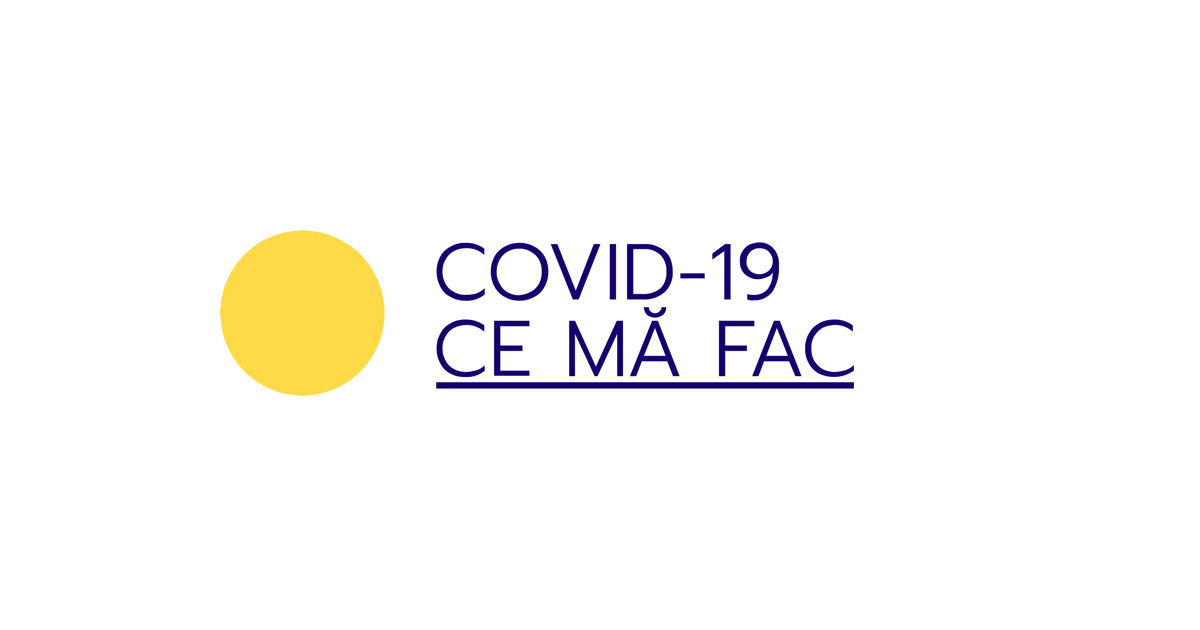
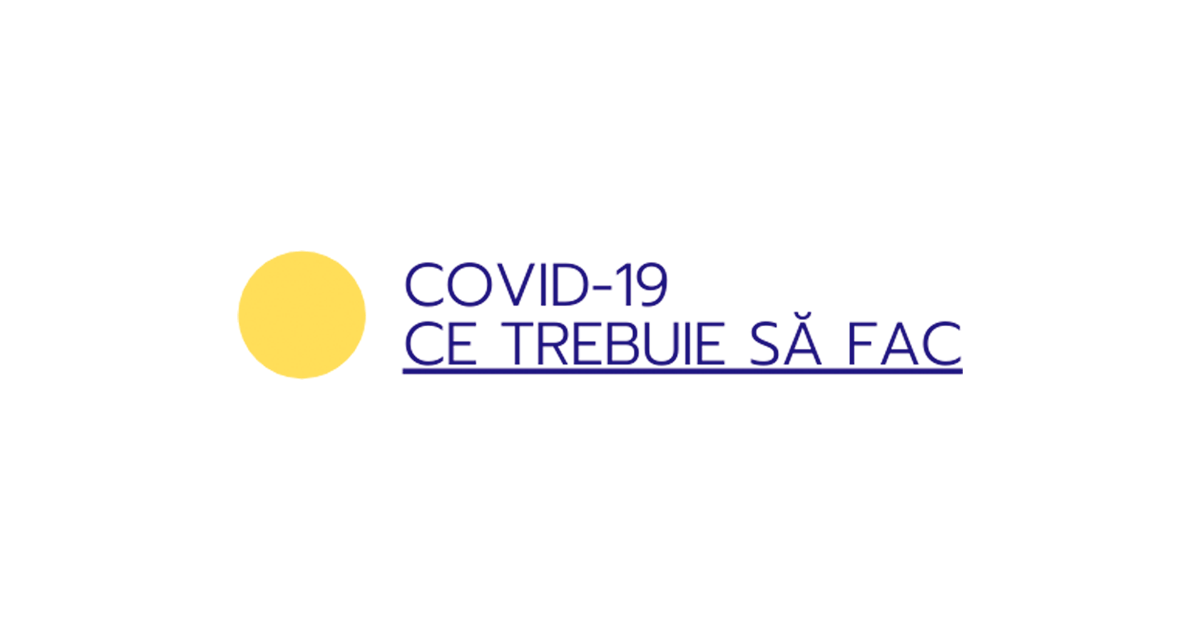
Deploy to prod (#135)
* Api setup.

* Swagger setup

* Api for static pages.

* chore: add initial setup for the frontend part

* docs: update main README.md file for the frontend app

* Api for static pages.

* Added routing and initial structure

* Code review changes

* Added react-bulma-components

* added dummy json files

* feat: initial header

* chore: add .nvmrc and .editorconfig

* chore: add eslint script and husky pre-commit hook

* refactor: change single to double quotes

* refactor: fix warning by adding alt to images

* chore: add eslint GitHub action

* fix: remove build dir from git

* Update decision-tree.json

* Update and rename decision-tree.json to static-page-with-decision-tree.json

* Update static-page.json

* Update useful-app.json

* Refactor/global styles (#43)

* chore: update global styling, removed custom elements, added mobile friendly css for the header, added node-sass

* chore: fixed formatting

* Update frontend/src/components/Header/Header.scss

* Feature/about page (#42)

* chore: create about page layout

* chore: added useful informations section

* chore: added some mobile friendly css

* chore: added node-sass

* fix: update custom elements to classes, removed ids, fixed formatting, added target to <a> tags

* chore: update app content width

* fix: fixed app content height

* chore: update content width

* Azure pipelines (#41)

* Set up CI with Azure Pipelines

[skip ci]

* reorder

* remove name

* Update build.yml for Azure Pipelines

* Add badge
[…]

Changed region(s): [[0.185, 0.3619, 0.8017, 0.6333]]

diff --git a/frontend/src/components/About/index.js b/frontend/src/components/About/index.js
@@ -22,15 +22,15 @@ const About = () => {
           <Hero
             title="Despre proiect"
             useFallbackIcon={true}
-            subtitle="Vrem să facem lucrurile mai simple pentru noi toți. Cemafac.ro este un
-          ghid cu reguli de interacțiune, acțiune și comportament recomandate în
-          această perioadă de criză în care ne confruntăm cu răspândirea foarte
-          rapidă a infecției cu coronavirus. Vrem să aducem mai aproape de voi
-          regulile de bază recomandate de autorități de la care este indicat să
-          nu ne abatem în această perioadă."
+            subtitle="Vrem să facem lucrurile mai simple pentru noi toți.
+          Cetrebuiesafac.ro este un ghid cu reguli de interacțiune, acțiune și
+          comportament recomandate în această perioadă de criză în care ne
+          confruntăm cu răspândirea foarte rapidă a infecției cu coronavirus.
+          Vrem să aducem mai aproape de voi regulile de bază recomandate de
+          autorități de la care este indicat să nu ne abatem în această perioadă."
           />
           <div>
-            <SocialsShare currentPage={"https://cemafac.ro/despre"} />
+            <SocialsShare currentPage={"https://cetrebuiesafac.ro/despre"} />
           </div>
         </section>
         <section className="about-section-logo">
@@ -38,10 +38,10 @@ const About = () => {
         </section>
         <section className="has-border-bottom has-horizontal-paddding">
           <p>
-            cemăfac.ro este o platformă care ajută populația să înțeleagă mai
-            bine care sunt regulile ce trebuie respectate în timpul pandemieii
-            COVID-19. Un ghid simplu și practic, redactat pe înțelesul tuturor
-            cu sprijinul&nbsp;
+            Cetrebuiesafac.ro este o platformă care ajută populația să înțeleagă
+            mai bine care sunt regulile ce trebuie respectate în timpul
+            pandemieii COVID-19. Un ghid simplu și practic, redactat pe
+            înțelesul tuturor cu sprijinul&nbsp;
             <a
               href="https://www.facebook.com/comunicarenonprofit/"
               target="_blank"
@@ -65,8 +65,8 @@ const About = () => {
         </section>
         <section className="has-border-bottom has-horizontal-paddding">
           <p>
-            Platforma cemăfac.ro este construită de Code for Romania Task Force
-            în parteneriat cu&nbsp;
+            Platforma cetrebuiesafac.ro este construită de Code for Romania Task
+            Force în parteneriat cu&nbsp;
             <a
               href="https://www.gov.ro/"
               target="_blank"

diff --git a/frontend/src/App.js b/frontend/src/App.js
@@ -1,4 +1,4 @@
-import React, { useEffect } from "react";
+import React, { useEffect, Suspense, lazy } from "react";
 import {
   BrowserRouter as Router,
   Link,
@@ -7,23 +7,32 @@ import {
   useHistory
 } from "react-router-dom";
 import { logPageView } from "./analyticsTracker";
-import FooterWrapper from "./components/Footer";
-import About from "./components/About";
 import Home from "./components/Home";
-import PrivacyPolicy from "./components/PrivacyPolicy";
-import TermsAndConditions from "./components/TermsAndConditions";
+
 import {
   Header,
   DevelopedBy,
   IncubatedBy,
   Banner
 } from "@code4ro/taskforce-fe-components";
-import LogoSvg from "./images/logo.svg";
+// import LogoSvg from "./images/logo.svg";
 import "./App.scss";
+
+const About = lazy(() => import("./components/About"));
+const PrivacyPolicy = lazy(() => import("./components/PrivacyPolicy"));
+const TermsAndConditions = lazy(() =>
+  import("./components/TermsAndConditions")
+);
+const FooterWrapper = lazy(() => import("./components/Footer"));
 
 const Logo = () => (
   <Link to="/">
-    <img width="145" height="32" alt="Covid-19. Ce ma fac?" src={LogoSvg} />
+    <img
+      width="178"
+      height="32"
+      alt="Covid-19. Ce trebuie să fac?"
+      src="/images/logo.png"
+    />
   </Link>
 );
 
@@ -72,24 +81,26 @@ const App = () => {
       />
       <Header Logo={Logo()} MenuItems={MenuItems} />
       <DevelopedBy showSecondLine={true} />
-      <main>
-        <Switch>
-          <Route path="/despre">
-            <About />
-          </Route>
-          <Route path="/politica-confidentialitate">
-            <PrivacyPolicy />
-          </Route>
-          <Route path="/termeni-si-conditii">
-            <TermsAndConditions />
-          </Route>
-          <Route exact path="/:pageSlug?/:subPageSlug?/">
-            <Home />
-          </Route>
-        </Switch>
-      </main>
-      <IncubatedBy />
-      <FooterWrapper />
+      <Suspense fallback={<div></div>}>
+        <main>
+          <Switch>
+            <Route path="/despre">
+              <About />
+            </Route>
+            <Route path="/politica-confidentialitate">
+              <PrivacyPolicy />
+            </Route>
+            <Route path="/termeni-si-conditii">
+              <TermsAndConditions />
+            </Route>
+            <Route exact path="/:pageSlug?/:subPageSlug?/">
+              <Home />
+            </Route>
+          </Switch>
+        </main>
+        <IncubatedBy />
+        <FooterWrapper />
+      </Suspense>
     </>
   );
 };

diff --git a/frontend/public/index.html b/frontend/public/index.html
@@ -7,20 +7,19 @@
     <meta name="theme-color" content="#233780" />
     <meta
       name="description"
-      content="Cemafac.ro este un ghid cu reguli de interacțiune, acțiune și comportament recomandate în timpul situației de urgență generată de pandemia COVID-19."
+      content="Cetrebuiesafac.ro este un ghid cu reguli de interacțiune, acțiune și comportament recomandate în timpul situației de urgență generată de pandemia COVID-19."
     />
 
-    <meta property="og:title" content="Ce mă fac">
-    <meta property="og:image" content="https://cemafac.ro/images/social.png">
-    <meta property="og:description" content="Cemafac.ro este un ghid cu reguli de interacțiune, acțiune și comportament recomandate în timpul situației de urgență generată de pandemia COVID-19.">
-    <meta property="og:url" content="https://cemafac.ro">
+    <meta property="og:title" content="Ce trebuie să fac" />
+    <meta property="og:image" content="https://cetrebuiesafac.ro/images/social.png" />
+    <meta
+      property="og:description"
+      content="Cetrebuiesafac.ro este un ghid cu reguli de interacțiune, acțiune și comportament recomandate în timpul situației de urgență generată de pandemia COVID-19."
+    />
+    <meta property="og:url" content="https://cetrebuiesafac.ro" />
     <meta property="og:type" content="website" />
 
     <link rel="apple-touch-icon" href="%PUBLIC_URL%/logo192.png" />
-    <link
-      href="https://fonts.googleapis.com/css?family=Titillium+Web:400,700&display=swap"
-      rel="stylesheet"
-    />
     <!--
       manifest.json provides metadata used when your web app is installed on a
       user's mobile device or desktop. See https://developers.google.com/web/fundamentals/web-app-manifest/
@@ -35,7 +34,7 @@
       work correctly both with client-side routing and a non-root public URL.
       Learn how to configure a non-root public URL by running `npm run build`.
     -->
-    <title>Ce mă fac</title>
+    <title>Ce trebuie să fac</title>
   </head>
   <body>
     <noscript>You need to enable JavaScript to run this app.</noscript>

diff --git a/frontend/src/_fonts.scss b/frontend/src/_fonts.scss
@@ -1,0 +1,46 @@
+/* latin-ext */
+@font-face {
+  font-family: "Titillium Web";
+  font-style: normal;
+  font-weight: 400;
+  font-display: swap;
+  src: local("Titillium Web Regular"), local("TitilliumWeb-Regular"),
+    url(/fonts/TitilliumWeb-Regular-ext.woff2) format("woff2");
+  unicode-range: U+0100-024F, U+0259, U+1E00-1EFF, U+2020, U+20A0-20AB,
+    U+20AD-20CF, U+2113, U+2C60-2C7F, U+A720-A7FF;
+}
+/* latin */
+@font-face {
+  font-family: "Titillium Web";
+  font-style: normal;
+  font-weight: 400;
+  font-display: swap;
+  src: local("Titillium Web Regular"), local("TitilliumWeb-Regular"),
+    url(/fonts/TitilliumWeb-Regular.woff2) format("woff2");
+  unicode-range: U+0000-00FF, U+0131, U+0152-0153, U+02BB-02BC, U+02C6, U+02DA,
+    U+02DC, U+2000-206F, U+2074, U+20AC, U+2122, U+2191, U+2193, U+2212, U+2215,
+    U+FEFF, U+FFFD;
+}
+/* latin-ext */
+@font-face {
+  font-family: "Titillium Web";
+  font-style: normal;
+  font-weight: 700;
+  font-display: swap;
+  src: local("Titillium Web Bold"), local("TitilliumWeb-Bold"),
+    url(/fonts/TitilliumWeb-Bold-ext.woff2) format("woff2");
+  unicode-range: U+0100-024F, U+0259, U+1E00-1EFF, U+2020, U+20A0-20AB,
+    U+20AD-20CF, U+2113, U+2C60-2C7F, U+A720-A7FF;
+}
+/* latin */
+@font-face {
+  font-family: "Titillium Web";
+  font-style: normal;
+  font-weight: 700;
+  font-display: swap;
+  src: local("Titillium Web Bold"), local("TitilliumWeb-Bold"),
+    url(/fonts/TitilliumWeb-Bold.woff2) format("woff2");
+  unicode-range: U+0000-00FF, U+0131, U+0152-0153, U+02BB-02BC, U+02C6, U+02DA,
+    U+02DC, U+2000-206F, U+2074, U+20AC, U+2122, U+2191, U+2193, U+2212, U+2215,
+    U+FEFF, U+FFFD;
+}

diff --git a/frontend/src/data/static-pages.js b/frontend/src/data/static-pages.js
@@ -116,7 +116,7 @@ export default [
          <ul>
           <li>Spală-te des pe mâini cu apă și săpun timp de cel puțin 20 de secunde, mai ales după ce ai fost într-un loc public sau după ce îți sufli nasul, tușești sau strănuți. (pentru a te șterge pe mâini folosește, de preferat, prosoape de hârtie).</li>
           <li>Dacă nu sunt disponibile apa și săpunul, utilizează un produs de dezinfectare a mâinilor. Acoperă cu lichidul toată suprafața mâinilor și freacă-ți mâinile până când se simt uscate.</li>
-          <li>NU intra în contact direct cu membrii familiei, atunci când revii la domiciliu, ]nainte de igienizarea mâinilor.</li>
+          <li>NU intra în contact direct cu membrii familiei, atunci când revii la domiciliu, înainte de igienizarea mâinilor.</li>
           <li>Dacă strănuți sau tușești acoperă-ți gura și nasul cu un șervețel de unică folosință, pe care ai grijă să îl arunci imediat la coșul de gunoi.</li>
           <li>Evită să îți atingi ochii, nasul și gura cu mâinile neigienizate.</li>
           <li>Distanțează-te de ceilalți în cazul în care COVID-19 se răspândește în propria comunitate. Acest lucru este cu atât mai important pentru persoanele care prezintă un risc mai mare de îmbolnăvire.</li>

diff --git a/frontend/src/components/Home/index.js b/frontend/src/components/Home/index.js
@@ -60,7 +60,7 @@ const Home = () => {
           title={"Toate informațiile de care ai nevoie"}
           useFallbackIcon={true}
           subtitle={
-            "Vrem să facem lucrurile mai simple pentru noi toți. Cemafac.ro este un ghid cu reguli de interacțiune, acțiune și comportament recomandate în timpul situației de urgență generată de pandemia COVID-19. Vrem să aducem mai aproape de voi regulile de bază recomandate de autorități de la care este indicat să nu ne abatem în această perioadă."
+            "Vrem să facem lucrurile mai simple pentru noi toți. Cetrebuiesafac.ro este un ghid cu reguli de interacțiune, acțiune și comportament recomandate în timpul situației de urgență generată de pandemia COVID-19. Vrem să aducem mai aproape de voi regulile de bază recomandate de autorități de la care este indicat să nu ne abatem în această perioadă."
           }
         />
       </div>

diff --git a/frontend/src/App.scss b/frontend/src/App.scss
@@ -1,6 +1,7 @@
-@import '~bulma/sass/utilities/_all.sass';
-@import "~bulma/sass/elements/content.sass";
-@import "~bulma/sass/elements/container.sass";
+@import "./fonts";
+@import "~bulma/sass/utilities/initial-variables.sass";
+@import "~bulma/sass/utilities/derived-variables.sass";
+@import "~bulma/sass/utilities/mixins.sass";
 @import "~bulma/sass/components/level.sass";
 
 .container {
@@ -14,4 +15,10 @@
 
 .incubated-by-wrapper {
   margin-top: 2rem;
+}
+
+@media (max-width: 768px) {
+  .banner-wrapper {
+    text-align: center;
+  }
 }

diff --git a/frontend/src/components/Form/Form.scss b/frontend/src/components/Form/Form.scss
@@ -9,3 +9,17 @@
     background-color: whitesmoke !important;
   }
 }
+
+@media (max-width: 768px) {
+  .action-buttons {
+    padding: 0;
+    .level-left {
+      margin-top: 1.5rem;
+      display: flex;
+
+      .level-item {
+        margin: 0 1rem 0 0;
+      }
+    }
+  }
+}

diff --git a/frontend/src/analyticsTracker.js b/frontend/src/analyticsTracker.js
@@ -1,7 +1,7 @@
 import ReactGA from "react-ga";
 
 export const initializeGA = () => {
-  if (document.location.hostname !== "cemafac.ro") {
+  if (document.location.hostname !== "cetrebuiesafac.ro") {
     return;
   }
   ReactGA.initialize("UA-160603540-1");

diff --git a/README.md b/README.md
@@ -2,7 +2,7 @@
 
 [![GitHub contributors](https://img.shields.io/github/contributors/code4romania/ce-ma-fac.svg?style=for-the-badge)](https://github.com/code4romania/ce-ma-fac/graphs/contributors) [![GitHub last commit](https://img.shields.io/github/last-commit/code4romania/ce-ma-fac.svg?style=for-the-badge)](https://github.com/code4romania/ce-ma-fac/commits/master) [![License: MPL 2.0](https://img.shields.io/badge/license-MPL%202.0-brightgreen.svg?style=for-the-badge)](https://opensource.org/licenses/MPL-2.0)
 
-[See the project live](https://cemafac.ro/)
+[See the project live](https://cetrebuiesafac.ro/)
 
 Objective: Clear information of the public, increase in the level of proper actions taken.
 
